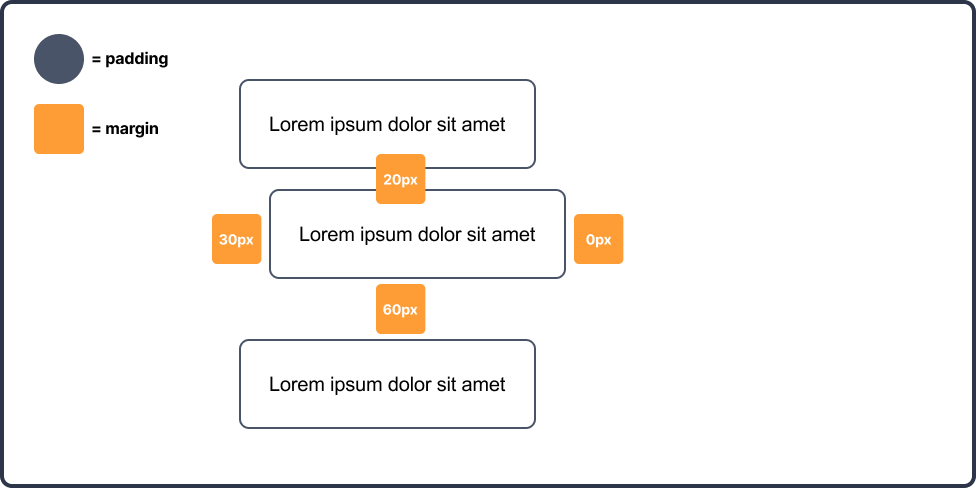
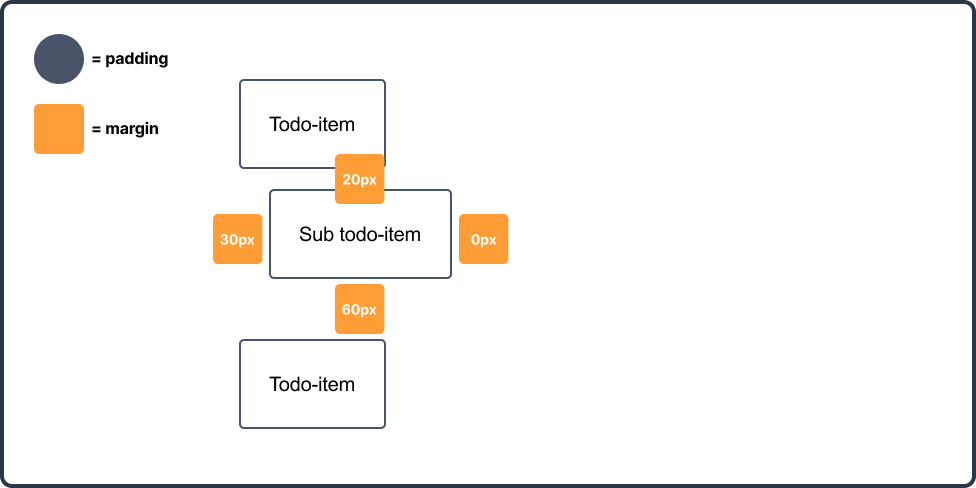
Edits aan mini-oefeningen padding en margin

diff --git a/week3-2/mini-oefeningen/padding-margin/oefening5/index.html b/week3-2/mini-oefeningen/padding-margin/oefening5/index.html
@@ -1,0 +1,21 @@
+<!doctype html>
+<html lang="en">
+
+<head>
+    <meta charset="UTF-8">
+    <meta name="viewport"
+        content="width=device-width, user-scalable=no, initial-scale=1.0, maximum-scale=1.0, minimum-scale=1.0">
+    <meta http-equiv="X-UA-Compatible" content="ie=edge">
+    <title>Mini-oefening</title>
+    <link rel="stylesheet" href="css/style.css">
+</head>
+
+<body>
+
+    <p class="first-text">Todo-item</p>
+    <p class="second-text">Sub todo-item</p>
+    <p class="third-text">Todo-item</p>
+
+</body>
+
+</html>

diff --git a/week3-2/mini-oefeningen/padding-margin/oefening5/css/style.css b/week3-2/mini-oefeningen/padding-margin/oefening5/css/style.css
@@ -1,9 +1,13 @@
-button {
-    background-color: #FFFFFF;
+p {
+
     border: 1px solid #000000;
+    width: 500px;
+    text-align: justify;
+    padding: 30px;
     border-radius: 5px;
-    font-size: 20px;
+}
 
+.second-text {
     /* Voer jouw code hieronder in */
-
+    
 }

diff --git a/week3-2/mini-oefeningen/padding-margin/oefening4/css/style.css b/week3-2/mini-oefeningen/padding-margin/oefening4/css/style.css
@@ -5,5 +5,5 @@ p {
     text-align: justify;
 
     /* Voer jouw code hieronder in */
-    padding: 0 20px;
+    
 }

diff --git a/week3-2/mini-oefeningen/padding-margin/README.md b/week3-2/mini-oefeningen/padding-margin/README.md
@@ -29,7 +29,7 @@ Bouw het volgende ontwerp na met de aangegeven waardes (klik op de afbeelding om
 ## Mini-oefening 2
 
 Bouw het volgende ontwerp na met de aangegeven waardes (klik op de afbeelding om te vergroten).
-<br>Je mag alleen maar in het CSS-bestand werken met `padding` en `margin`.
+<br>Je mag alleen maar in het CSS-bestand werken met `selectors`, `padding` en `margin`.
 
 <img src="./images/Mini-oefening2.png" alt="Mini-oefening 2" title="Mini-oefening 2" width="800">
 
@@ -38,7 +38,7 @@ Bouw het volgende ontwerp na met de aangegeven waardes (klik op de afbeelding om
 ## Mini-oefening 3
 
 Bouw het volgende ontwerp na met de aangegeven waardes (klik op de afbeelding om te vergroten).
-<br>Je mag alleen maar in het CSS-bestand werken met `padding` en `margin`.
+<br>Je mag alleen maar in het CSS-bestand werken met `selectors`, `padding` en `margin`.
 
 <img src="./images/Mini-oefening3.png" alt="Mini-oefening 3" title="Mini-oefening 3" width="800">
 
